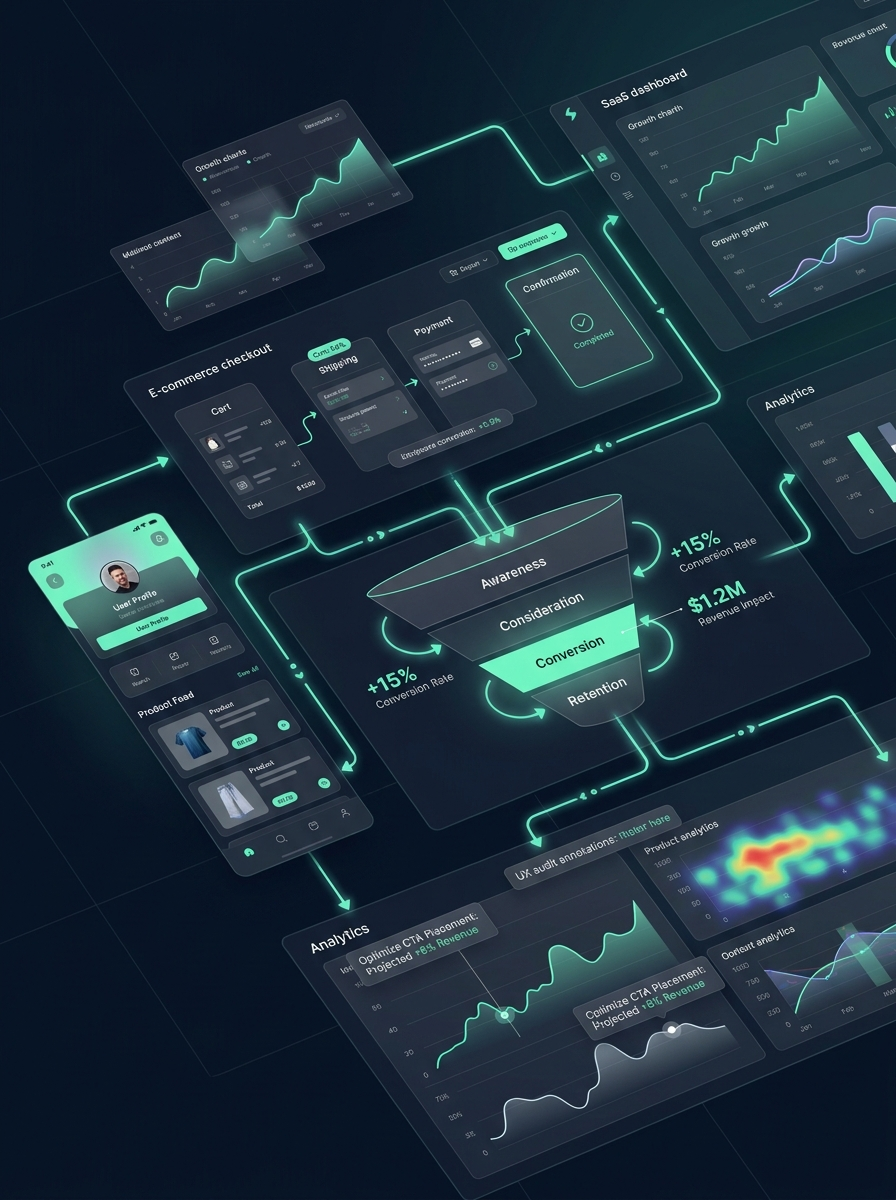
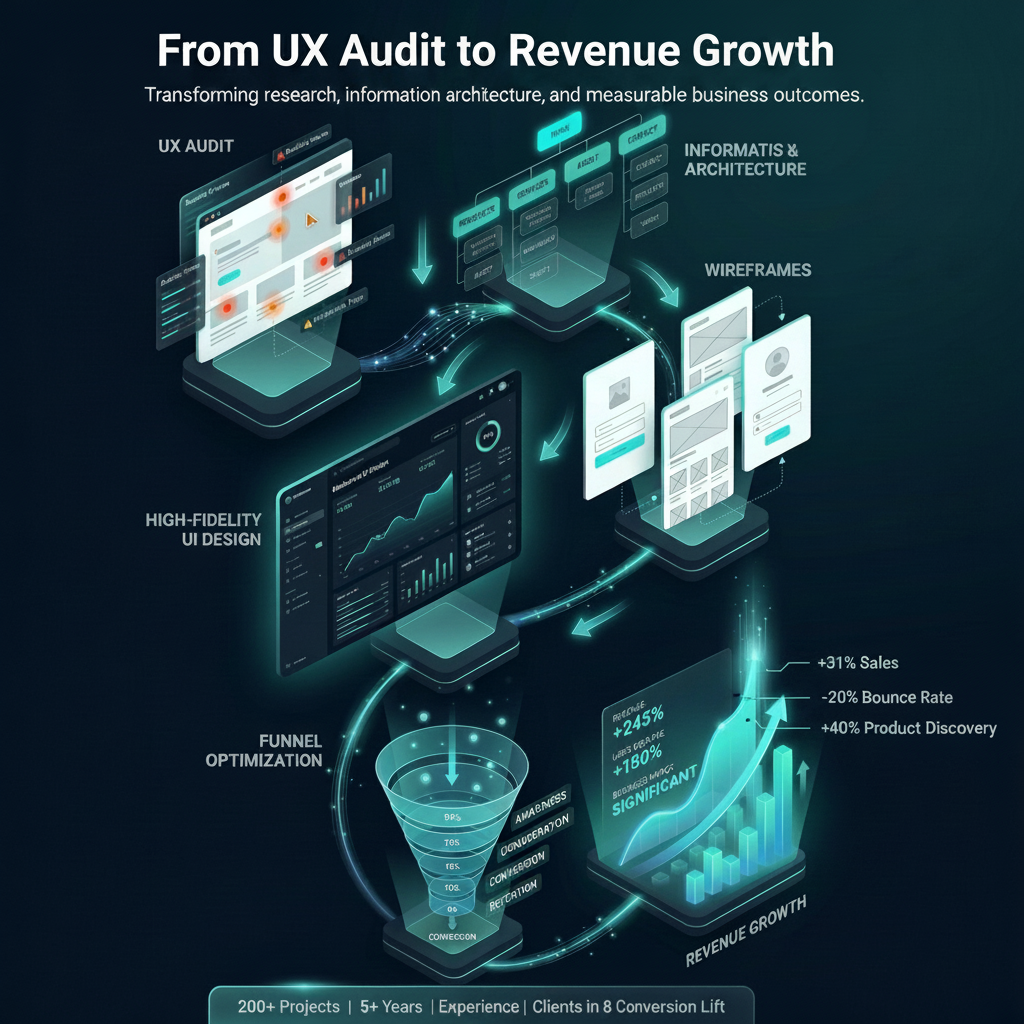
index updated

diff --git a/index.html b/index.html
@@ -378,11 +378,11 @@
                   ><span class="l">Screens Redesigned</span>
                 </div>
                 <div class="kpi">
-                  <span class="v">+7</span
-                  ><span class="l">Core Workflows</span>
+                  <span class="v">+7</span><span class="l">Core Workflows</span>
                 </div>
                 <div class="kpi">
-                  <span class="v">2 Weeks</span><span class="l">Delivery Timeline</span>
+                  <span class="v">2 Weeks</span
+                  ><span class="l">Delivery Timeline</span>
                 </div>
               </div>
             </div>
@@ -435,8 +435,8 @@
                 <div>
                   <div class="pso-lbl">Outcome</div>
                   <div class="pso-txt">
-                    <strong>Delivered a modern enterprise experience</strong
-                    > that improved usability while preserving established
+                    <strong>Delivered a modern enterprise experience</strong>
+                    that improved usability while preserving established
                     operational workflows.
                   </div>
                 </div>
@@ -767,7 +767,7 @@
         <div class="about-grid">
           <div class="a-photo rvl">
             <img
-              src="assets/photo.jpg"
+              src="assets/img/about.png"
               alt="Sana Ishaq"
               style="
                 width: 100%;